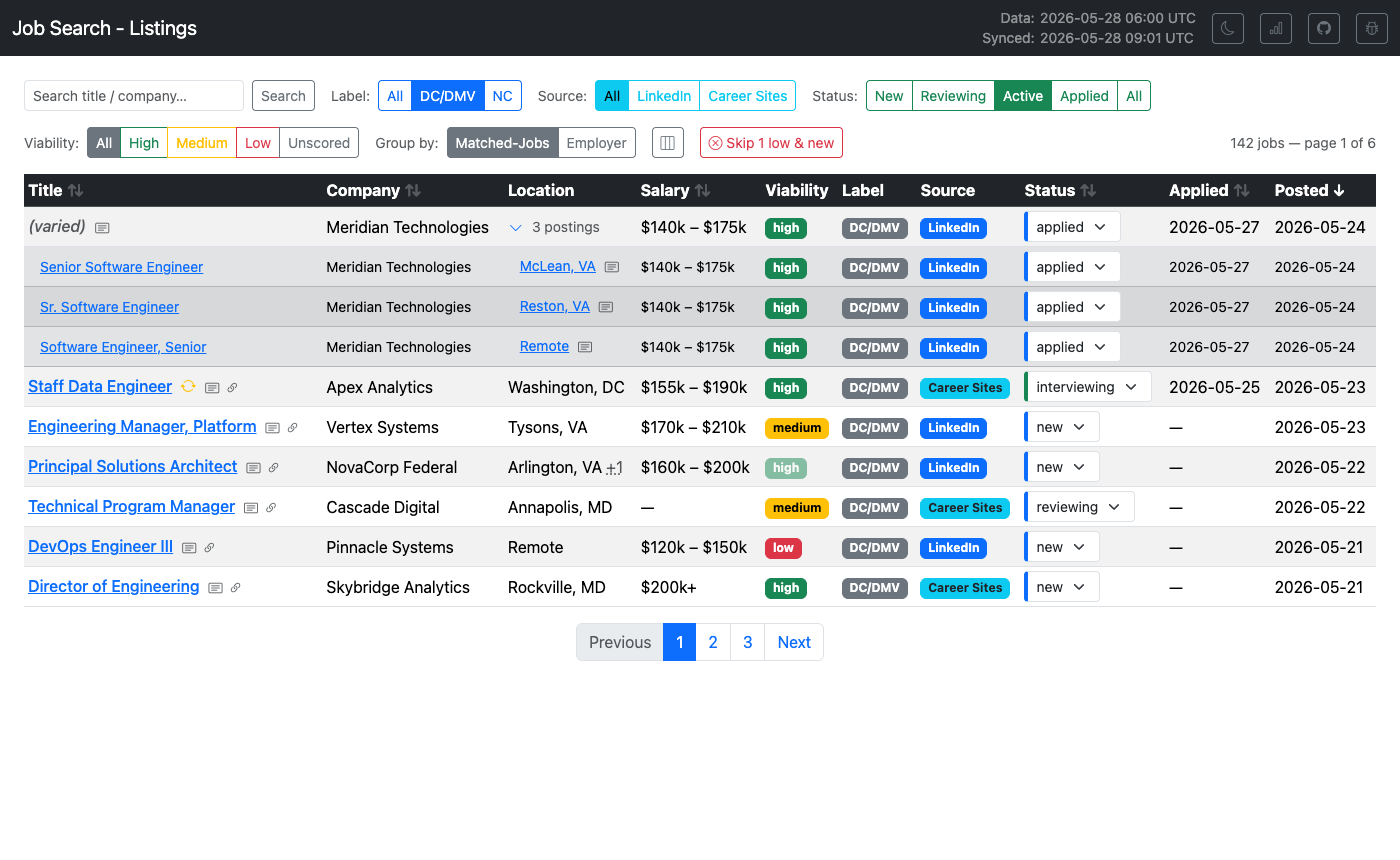
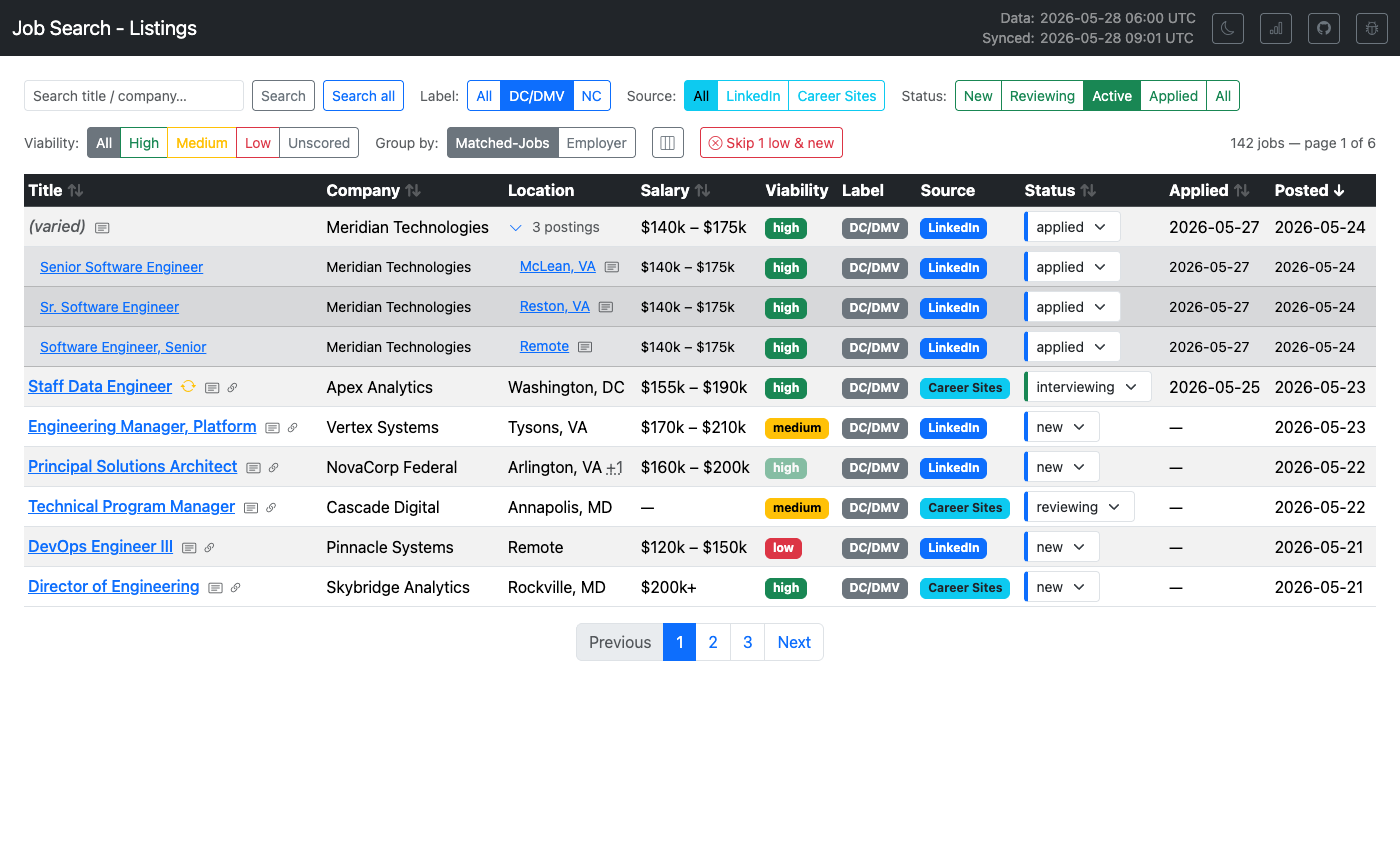
Add "Search all" to search every job without losing your filters
When a job looks familiar and you want to find its duplicate to link, you no
longer have to tear down and rebuild your filters. The new Search all button
runs the current term against every job with a clean slate (all statuses,
default grouping/sort), shows a "filters are paused" banner, and stashes your
prior view in a return_to URL param. The search clears/Restore button returns
you to exactly where you were — and since linking reloads the same URL,
return_to survives the match action.

return_to is threaded through sort/page/filter links so scanning results keeps
the restore target, and is validated server-side as a local path to avoid
open redirects. Docs and screenshot updated.

Changed region(s): [[0.215, 0.0907, 0.8907, 0.1512]]

diff --git a/templates/jobs.html b/templates/jobs.html
@@ -9,6 +9,8 @@
 {% set gm = '1' if group_match else '0' %}
 {% set ge = '1' if group_employer else '0' %}
 {% set ed = emp_dir if emp_dir != 'asc' else none %}
+{# return_to carries the "Search all" restore target through every link. #}
+{% set rt = return_to or none %}
 
 {# ── Link-to-canonical modal ── #}
 <div class="modal fade" id="linkModal" tabindex="-1" aria-labelledby="linkModalLabel" aria-hidden="true">
@@ -248,6 +250,14 @@
         {% endif %}
 {% endmacro %}
 
+{% if return_to %}
+<div class="alert alert-warning py-1 px-2 small mb-2 d-flex align-items-center gap-2">
+  <i class="bi bi-funnel-fill"></i>
+  <span>Searching <strong>all jobs</strong> — your filters are paused.</span>
+  <a href="{{ return_to }}" class="btn btn-sm btn-warning ms-auto py-0">↩ Restore filters</a>
+</div>
+{% endif %}
+
 {# ── Filter / view bar ── #}
 <div class="d-flex flex-wrap align-items-center gap-3 mb-3">
 
@@ -261,19 +271,26 @@
     {% if label %}<input type="hidden" name="label" value="{{ label }}">{% endif %}
     {% if source %}<input type="hidden" name="source" value="{{ source }}">{% endif %}
     {% if viability %}<input type="hidden" name="viability" value="{{ viability }}">{% endif %}
+    {% if rt %}<input type="hidden" name="return_to" value="{{ rt }}">{% endif %}
     <input type="search" class="form-control form-control-sm" name="q"
            placeholder="Search title / company…" value="{{ q }}" style="width:220px">
     <button type="submit" class="btn btn-sm btn-outline-secondary">Search</button>
-    {% if q %}<a href="{{ url_for('index', sort=sort, dir=direction, group_match=gm, group_employer=ge, emp_dir=ed, label=label or None, source=source or None, viability=viability or None, status_filter=status_filter) }}" class="btn btn-sm btn-outline-danger" title="Clear search">✕</a>{% endif %}
+    <button type="button" class="btn btn-sm btn-outline-primary" onclick="searchAllJobs(this)"
+            title="Search every job, ignoring all current filters — the ✕ restores your filters afterward">Search all</button>
+    {% if return_to %}
+    <a href="{{ return_to }}" class="btn btn-sm btn-warning" title="Restore your filters and return to where you were">↩ Restore filters</a>
+    {% elif q %}
+    <a href="{{ url_for('index', sort=sort, dir=direction, group_match=gm, group_employer=ge, emp_dir=ed, label=label or None, source=source or None, viability=viability or None, status_filter=status_filter) }}" class="btn btn-sm btn-outline-danger" title="Clear search">✕</a>
+    {% endif %}
   </form>
 
   <div class="d-flex align-items-center gap-2">
     <span class="text-muted small">Label:</span>
     <div class="btn-group btn-group-sm" role="group">
-      <a href="{{ url_for('index', sort=sort, dir=direction, group_match=gm, group_employer=ge, emp_dir=ed, status_filter=status_filter, source=source or None, viability=viability or None, q=q or None) }}"
+      <a href="{{ url_for('index', sort=sort, dir=direction, group_match=gm, group_employer=ge, emp_dir=ed, return_to=rt, status_filter=status_filter, source=source or None, viability=viability or None, q=q or None) }}"
          class="btn btn-{{ 'primary' if not label else 'outline-primary' }}">All</a>
       {% for r in labels %}
-      <a href="{{ url_for('index', sort=sort, dir=direction, group_match=gm, group_employer=ge, emp_dir=ed, status_filter=status_filter, source=source or None, viability=viability or None, label=r.value, q=q or None, page=1) }}"
+      <a href="{{ url_for('index', sort=sort, dir=direction, group_match=gm, group_employer=ge, emp_dir=ed, return_to=rt, status_filter=status_filter, source=source or None, viability=viability or None, label=r.value, q=q or None, page=1) }}"
          class="btn btn-{{ 'primary' if label == r.value else 'outline-primary' }}">{{ r.label }}</a>
       {% endfor %}
     </div>
@@ -283,10 +300,10 @@
   <div class="d-flex align-items-center gap-2">
     <span class="text-muted small">Source:</span>
     <div class="btn-group btn-group-sm" role="group">
-      <a href="{{ url_for('index', sort=sort, dir=direction, group_match=gm, group_employer=ge, emp_dir=ed, label=label or None, status_filter=status_filter, viability=viability or None, q=q or None, page=1) }}"
+      <a href="{{ url_for('index', sort=sort, dir=direction, group_match=gm, group_employer=ge, emp_dir=ed, return_to=rt, label=label or None, status_filter=status_filter, viability=viability or None, q=q or None, page=1) }}"
          class="btn btn-{{ 'info' if not source else 'outline-info' }}">All</a>
       {% for s in sources %}
-      <a href="{{ url_for('index', sort=sort, dir=direction, group_match=gm, group_employer=ge, emp_dir=ed, label=label or None, status_filter=status_filter, viability=viability or None, source=s.value, q=q or None, page=1) }}"
+      <a href="{{ url_for('index', sort=sort, dir=direction, group_match=gm, group_employer=ge, emp_dir=ed, return_to=rt, label=label or None, status_filter=status_filter, viability=viability or None, source=s.value, q=q or None, page=1) }}"
          class="btn btn-{{ 'info' if source == s.value else 'outline-info' }}">{{ s.label }}</a>
       {% endfor %}
     </div>
@@ -297,15 +314,15 @@
   <div class="d-flex align-items-center gap-2">
     <span class="text-muted small">Viability:</span>
     <div class="btn-group btn-group-sm" role="group">
-      <a href="{{ url_for('index', sort=sort, dir=direction, group_match=gm, group_employer=ge, emp_dir=ed, label=label or None, status_filter=status_filter, source=source or None, q=q or None, page=1) }}"
+      <a href="{{ url_for('index', sort=sort, dir=direction, group_match=gm, group_employer=ge, emp_dir=ed, return_to=rt, label=label or None, status_filter=status_filter, source=source or None, q=q or None, page=1) }}"
          class="btn btn-{{ 'secondary' if not viability else 'outline-secondary' }}">All</a>
-      <a href="{{ url_for('index', sort=sort, dir=direction, group_match=gm, group_employer=ge, emp_dir=ed, label=label or None, status_filter=status_filter, source=source or None, viability='high', q=q or None, page=1) }}"
+      <a href="{{ url_for('index', sort=sort, dir=direction, group_match=gm, group_employer=ge, emp_dir=ed, return_to=rt, label=label or None, status_filter=status_filter, source=source or None, viability='high', q=q or None, page=1) }}"
          class="btn btn-{{ 'success' if viability == 'high' else 'outline-success' }}">High</a>
-      <a href="{{ url_for('index', sort=sort, dir=direction, group_match=gm, group_employer=ge, emp_dir=ed, label=label or None, status_filter=status_filter, source=source or None, viability='medium', q=q or None, page=1) }}"
+      <a href="{{ url_for('index', sort=sort, dir=direction, group_match=gm, group_employer=ge, emp_dir=ed, return_to=rt, label=label or None, status_filter=status_filter, source=source or None, viability='medium', q=q or None, page=1) }}"
          class="btn btn-{{ 'warning' if viability == 'medium' else 'outline-warning' }}">Medium</a>
-      <a href="{{ url_for('index', sort=sort, dir=direction, group_match=gm, group_employer=ge, emp_dir=ed, label=label or None, status_filter=status_filter, source=source or None, viability='low', q=q or None, page=1) }}"
+      <a href="{{ url_for('index', sort=sort, dir=direction, group_match=gm, group_employer=ge, emp_dir=ed, return_to=rt, label=label or None, status_filter=status_filter, source=source or None, viability='low', q=q or None, page=1) }}"
          class="btn btn-{{ 'danger' if viability == 'low' else 'outline-danger' }}">Low</a>
-      <a href="{{ url_for('index', sort=sort, dir=direction, group_match=gm, group_employer=ge, emp_dir=ed, label=label or None, status_filter=status_filter, source=source or None, viability='unscored', q=q or None, page=1) }}"
+      <a href="{{ url_for('index', sort=sort, dir=direction, group_match=gm, group_employer=ge, emp_dir=ed, return_to=rt, label=label or None, status_filter=status_filter, source=source or None, viability='unscored', q=q or None, page=1) }}"
          class="btn btn-{{ 'secondary' if viability == 'unscored' else 'outline-secondary' }}">Unscored</a>
     </div>
   </div>
@@ -315,7 +332,7 @@
     <span class="text-muted small">Status:</span>
     <div class="btn-group btn-group-sm" role="group">
       {% for key, (sf_label, _) in status_filters.items() %}
-      <a href="{{ url_for('index', sort=sort, dir=direction, group_match=gm, group_employer=ge, emp_dir=ed, label=label or None, status_filter=key, source=source or None, viability=viability or None, q=q or None, page=1) }}"
+      <a href="{{ url_for('index', sort=sort, dir=direction, group_match=gm, group_employer=ge, emp_dir=ed, return_to=rt, label=label or None, status_filter=key, source=source or None, viability=viability or None, q=q or None, page=1) }}"
          class="btn btn-{{ 'success' if status_filter == key else 'outline-success' }}">{{ sf_label }}</a>
       {% endfor %}
     </div>
@@ -324,10 +341,10 @@
   <div class="d-flex align-items-center gap-2">
     <span class="text-muted small">Group&nbsp;by:</span>
     <div class="btn-group btn-group-sm" role="group">
-      <a href="{{ url_for('index', sort=sort, dir=direction, label=label or None, status_filter=status_filter, source=source or None, viability=viability or None, group_match=('0' if group_match else '1'), group_employer=ge, emp_dir=ed, q=q or None, page=1) }}"
+      <a href="{{ url_for('index', sort=sort, dir=direction, label=label or None, status_filter=status_filter, source=source or None, viability=viability or None, group_match=('0' if group_match else '1'), group_employer=ge, emp_dir=ed, return_to=rt, q=q or None, page=1) }}"
          class="btn btn-{{ 'secondary' if group_match else 'outline-secondary' }}"
          title="Collapse fuzzy-matched duplicate postings into one row">Matched-Jobs</a>
-      <a href="{{ url_for('index', sort=sort, dir=direction, label=label or None, status_filter=status_filter, source=source or None, viability=viability or None, group_match=gm, group_employer=('0' if group_employer else '1'), emp_dir=ed, q=q or None, page=1) }}"
+      <a href="{{ url_for('index', sort=sort, dir=direction, label=label or None, status_filter=status_filter, source=source or None, viability=viability or None, group_match=gm, group_employer=('0' if group_employer else '1'), emp_dir=ed, return_to=rt, q=q or None, page=1) }}"
          class="btn btn-{{ 'secondary' if group_employer else 'outline-secondary' }}"
          title="Group postings under their employer">Employer</a>
     </div>
@@ -426,15 +443,15 @@
 <nav>
   <ul class="pagination justify-content-center">
     <li class="page-item {% if page <= 1 %}disabled{% endif %}">
-      <a class="page-link" href="{{ url_for('index', page=page-1, sort=sort, dir=direction, label=label or None, group_match=gm, group_employer=ge, emp_dir=ed, status_filter=status_filter, source=source or None, viability=viability or None, q=q or None) }}">Previous</a>
+      <a class="page-link" href="{{ url_for('index', page=page-1, sort=sort, dir=direction, label=label or None, group_match=gm, group_employer=ge, emp_dir=ed, return_to=rt, status_filter=status_filter, source=source or None, viability=viability or None, q=q or None) }}">Previous</a>
     </li>
     {% for p in range([1, page-2]|max, [total_pages+1, page+3]|min) %}
     <li class="page-item {% if p == page %}active{% endif %}">
-      <a class="page-link" href="{{ url_for('index', page=p, sort=sort, dir=direction, label=label or None, group_match=gm, group_employer=ge, emp_dir=ed, status_filter=status_filter, source=source or None, viability=viability or None, q=q or None) }}">{{ p }}</a>
+      <a class="page-link" href="{{ url_for('index', page=p, sort=sort, dir=direction, label=label or None, group_match=gm, group_employer=ge, emp_dir=ed, return_to=rt, status_filter=status_filter, source=source or None, viability=viability or None, q=q or None) }}">{{ p }}</a>
     </li>
     {% endfor %}
     <li class="page-item {% if page >= total_pages %}disabled{% endif %}">
-      <a class="page-link" href="{{ url_for('index', page=page+1, sort=sort, dir=direction, label=label or None, group_match=gm, group_employer=ge, emp_dir=ed, status_filter=status_filter, source=source or None, viability=viability or None, q=q or None) }}">Next</a>
+      <a class="page-link" href="{{ url_for('index', page=page+1, sort=sort, dir=direction, label=label or None, group_match=gm, group_employer=ge, emp_dir=ed, return_to=rt, status_filter=status_filter, source=source or None, viability=viability or None, q=q or None) }}">Next</a>
     </li>
   </ul>
 </nav>
@@ -739,6 +756,21 @@ function toggleEmployer(headerCell) {
     icon.classList.toggle('bi-chevron-down', !collapsed);
     icon.classList.toggle('bi-chevron-right', collapsed);
   }
+}
+
+// "Search all": run the current search term against every job with a clean slate
+// (all statuses, default grouping/sort), stashing the current view as return_to so
+// the ✕ / "Restore filters" can bring it back. When already in search-all mode,
+// keep the ORIGINAL return_to rather than nesting.
+function searchAllJobs(btn) {
+  const q = (btn.form.querySelector('input[name="q"]').value || '').trim();
+  const cur = new URLSearchParams(window.location.search);
+  const ret = cur.get('return_to') || (window.location.pathname + window.location.search);
+  const p = new URLSearchParams();
+  if (q) p.set('q', q);
+  p.set('status_filter', 'all');   // clean slate — defaults for grouping/sort are implied
+  p.set('return_to', ret);
+  window.location.href = '/?' + p.toString();
 }
 </script>
 {% endblock %}

diff --git a/app.py b/app.py
@@ -517,7 +517,8 @@ def available_sources(db: sqlite3.Connection) -> list[dict]:
 def sort_url(col: str, current_sort: str, current_dir: str,
              label: str, group_match: bool, group_employer: bool,
              status_filter: str, q: str = "",
-             source: str = "", viability: str = "", emp_dir: str = "asc") -> str:
+             source: str = "", viability: str = "", emp_dir: str = "asc",
+             return_to: str = "") -> str:
     if current_sort != col:
         # Not currently sorted by this column — start ascending.
         new_sort, new_dir = col, "asc"
@@ -533,7 +534,8 @@ def sort_url(col: str, current_sort: str, current_dir: str,
                    group_employer="1" if group_employer else "0",
                    emp_dir=emp_dir if emp_dir != "asc" else None,
                    source=source or None, viability=viability or None,
-                   status_filter=status_filter, q=q or None, page=1)
+                   status_filter=status_filter, q=q or None,
+                   return_to=return_to or None, page=1)
 
 
 @app.route("/")
@@ -564,6 +566,11 @@ def index():
     emp_dir = request.args.get("emp_dir", "asc")
     if emp_dir not in ("asc", "desc"):
         emp_dir = "asc"
+    # "Search all" stashes the prior filtered view here so the search ✕ can restore
+    # it. Only accept a local path (no open-redirect via //host or backslashes).
+    return_to = request.args.get("return_to", "")
+    if not return_to.startswith("/") or return_to.startswith("//") or "\\" in return_to:
+        return_to = ""
 
     if sort not in SORTABLE_COLS:
         sort = DEFAULT_SORT
@@ -647,7 +654,7 @@ def index():
     show_viability_filter = has_viability_scores(db)
     col_urls             = {
         col: sort_url(col, sort, direction, label, group_match, group_employer,
-                      status_filter, q, source, viability, emp_dir)
+                      status_filter, q, source, viability, emp_dir, return_to)
         for col in SORTABLE_COLS
     }
     # Link on the Company header (employer mode only): flip the employer-section
@@ -657,7 +664,8 @@ def index():
                           group_employer="1" if group_employer else "0",
                           emp_dir="desc" if emp_dir == "asc" else "asc",
                           source=source or None, viability=viability or None,
-                          status_filter=status_filter, q=q or None, page=1)
+                          status_filter=status_filter, q=q or None,
+                          return_to=return_to or None, page=1)
 
     return render_template(
         "jobs.html",
@@ -675,6 +683,7 @@ def index():
         group_employer=group_employer,
         emp_dir=emp_dir,
         emp_dir_url=emp_dir_url,
+        return_to=return_to,
         status_filter=status_filter,
         status_filters=STATUS_FILTERS,
         statuses=STATUSES,

diff --git a/docs/features.md b/docs/features.md
@@ -9,6 +9,12 @@
 - **Status** — see [Status reference](#status-reference) below.
 - **Viability** — filter by AI viability score (High / Medium / Low / Unscored). Appears once any jobs have been scored.
 
+### Searching
+
+The search box matches job title and company. A plain **Search** keeps your current filters applied (search *within* the filtered set).
+
+**Search all** runs the same term against **every** job with a clean slate — all statuses, default grouping and sort — so nothing is hidden behind your filters. This is handy when a job looks familiar and you want to find its potential duplicate to [link manually](#manual-linking), without losing your place. While in this mode a banner shows "your filters are paused"; click the **✕ / Restore filters** button (or run a normal search) to return to exactly the filtered view you came from. Your prior view is remembered in the URL, so linking a job (which reloads the page) doesn't lose it.
+
 ### Grouping
 
 Two independent **Group by** toggles in the filter bar control how rows are organised. Either, both, or neither can be active: